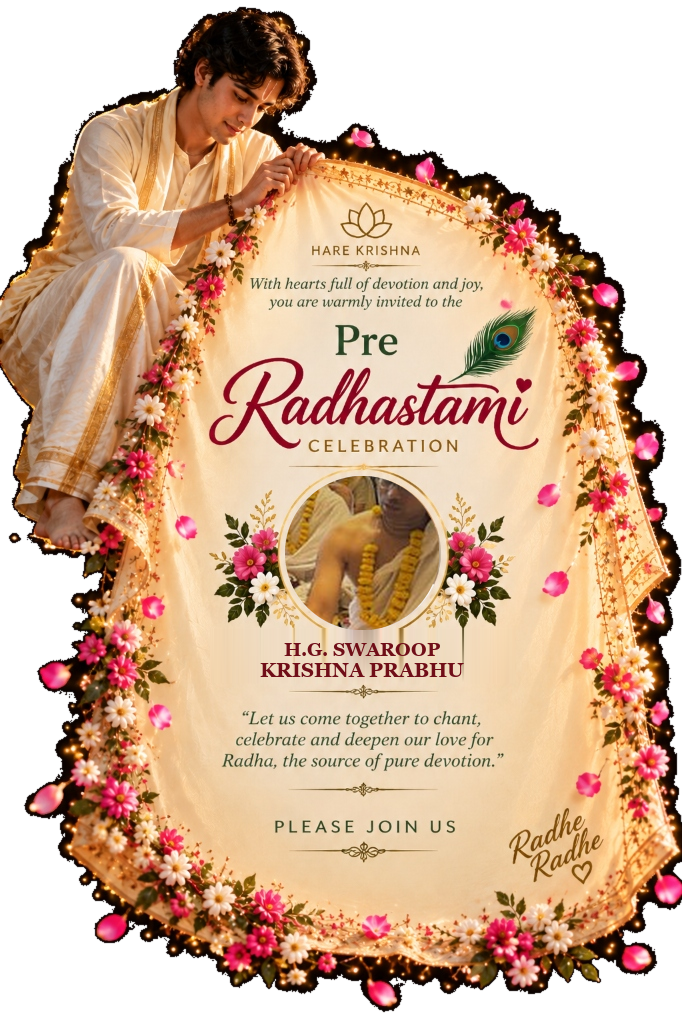
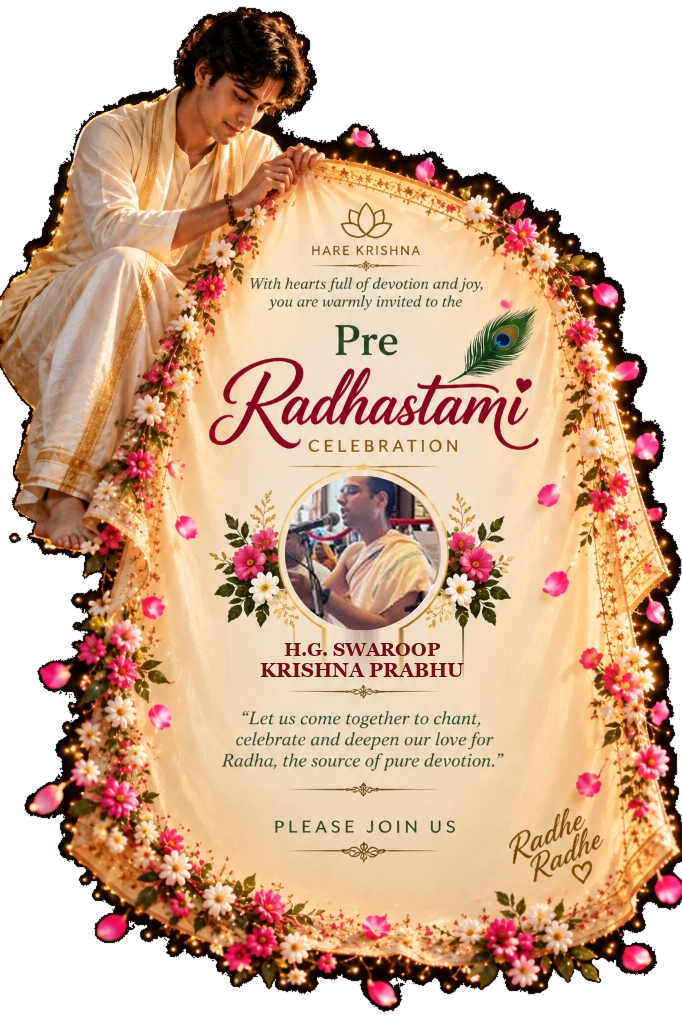
Update HG Swaroop Krishna Prabhu (bottom left devotee with hair and glasses)

Changed region(s): [[0.4003, 0.4375, 0.6466, 0.625]]

diff --git a/fix_swaroop.py b/fix_swaroop.py
@@ -1,0 +1,63 @@
+import os, sys, re, subprocess
+import numpy as np
+from PIL import Image, ImageDraw, ImageFont
+
+base_dir = r'D:\radha-ashtami'
+images_dir = os.path.join(base_dir, 'images')
+
+photo_path = r'C:\Users\pc\.gemini\antigravity\brain\ab98e414-96f1-47f0-bd3d-25b94e55a072\.user_uploaded\media_1789723135001.jpg'
+src = Image.open(photo_path).convert('RGB')
+w, h = src.size
+
+# Bottom half, left devotee with hair, glasses, singing into mic
+crop_size = int(min(w, h) * 0.22)
+cx = int(w * 0.31)
+cy = int(h * 0.65)
+left = max(0, min(w - crop_size, cx - crop_size // 2))
+top = max(0, min(h - crop_size, cy - crop_size // 2))
+
+profile_sq = src.crop((left, top, left + crop_size, top + crop_size)).resize((500, 500), Image.Resampling.LANCZOS)
+profile_sq.save(os.path.join(images_dir, 'swaroop_krishna_prabhu.jpg'), quality=95)
+
+card_orig = Image.open(os.path.join(images_dir, 'radharani_dupatta_transparent.png')).convert('RGBA')
+arr = np.array(card_orig)
+y1, y2, x1, x2 = 629, 681, 210, 515
+row_top = arr[y1 - 1, x1:x2].astype(float)
+row_bot = arr[y2 + 1, x1:x2].astype(float)
+for idx, y in enumerate(range(y1, y2 + 1)):
+    alpha = (idx + 1) / (y2 - y1 + 2)
+    arr[y, x1:x2] = (1 - alpha) * row_top + alpha * row_bot
+card = Image.fromarray(arr, 'RGBA')
+
+cx_c, cy_c, radius = 362, 553, 77
+size = radius * 2
+
+mask = Image.new('L', (size * 4, size * 4), 0)
+draw_mask = ImageDraw.Draw(mask)
+draw_mask.ellipse((0, 0, size * 4, size * 4), fill=255)
+mask = mask.resize((size, size), Image.Resampling.LANCZOS)
+
+face_resized = profile_sq.resize((size, size), Image.Resampling.LANCZOS).convert('RGBA')
+card.paste(face_resized, (cx_c - radius, cy_c - radius), mask)
+
+draw = ImageDraw.Draw(card)
+font_bold = ImageFont.truetype('georgiab.ttf', 20)
+font_sub = ImageFont.truetype('georgiab.ttf', 19)
+text_color = (112, 14, 24, 255)
+
+line1 = 'H.G. SWAROOP'
+line2 = 'KRISHNA PRABHU'
+bb1 = draw.textbbox((0, 0), line1, font=font_sub)
+w1 = bb1[2] - bb1[0]
+bb2 = draw.textbbox((0, 0), line2, font=font_bold)
+w2 = bb2[2] - bb2[0]
+draw.text((cx_c - w1 // 2, 638), line1, fill=text_color, font=font_sub)
+draw.text((cx_c - w2 // 2, 658), line2, fill=text_color, font=font_bold)
+
+card_file = 'radharani_dupatta_swaroop_krishna.png'
+card.save(os.path.join(images_dir, card_file), 'PNG')
+
+subprocess.run(['git', 'add', '.'], cwd=base_dir, check=True)
+subprocess.run(['git', 'commit', '-m', 'Update HG Swaroop Krishna Prabhu (bottom left devotee with hair and glasses)'], cwd=base_dir, check=True)
+subprocess.run(['git', 'push', 'origin', 'main'], cwd=base_dir, check=True)
+print('SUCCESS_UPDATED_SWAROOP_KRISHNA')
